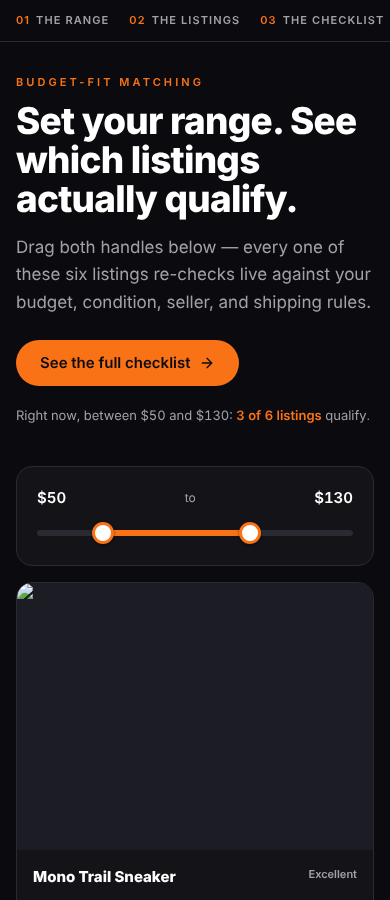
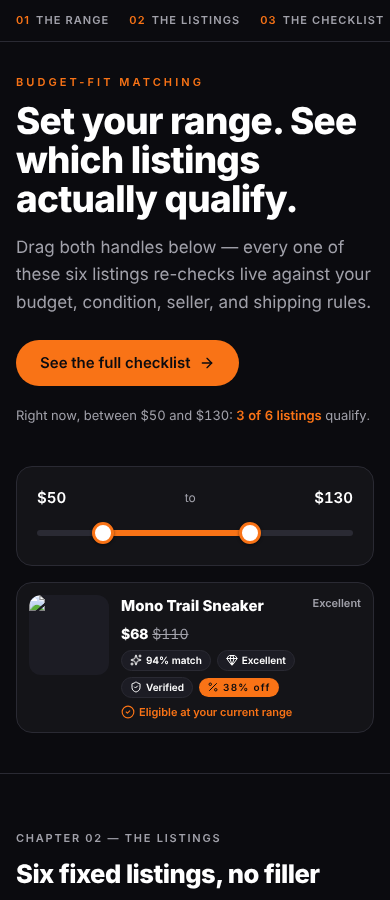
wip(dash-evolve): landing r57/a — post-judgment fix: compact ListingCard to horizontal thumbnail layout so all 4 proof badges clear the 390px mobile fold (rule-violation fix per S3-1, ranking not recomputed)
Claude-Session: https://claude.ai/code/session_01EuxqRXeCDb7yvWCvdZYyct

diff --git a/app/src/app/landing-evolve/r57/a/ListingCard.tsx b/app/src/app/landing-evolve/r57/a/ListingCard.tsx
@@ -28,20 +28,23 @@ export function ListingCard({ listing, min, max, compact = false }: ListingCardP
 
   return (
     <div
-      className="flex min-w-0 flex-col overflow-hidden rounded-2xl"
+      className={compact ? "flex min-w-0 items-start gap-3 overflow-hidden rounded-2xl p-3" : "flex min-w-0 flex-col overflow-hidden rounded-2xl"}
       style={{ border: `1px solid ${BORDER}`, backgroundColor: SURFACE }}
     >
-      <div className="relative aspect-[4/3] w-full" style={{ backgroundColor: SURFACE_RAISED }}>
+      <div
+        className={compact ? "relative aspect-square w-20 shrink-0 overflow-hidden rounded-xl" : "relative aspect-[4/3] w-full"}
+        style={{ backgroundColor: SURFACE_RAISED }}
+      >
         <Image
           src={`https://images.unsplash.com/photo-${listing.photoId}?auto=format&fit=crop&w=640&q=80`}
           alt={listing.alt}
           fill
-          sizes="(max-width: 768px) 90vw, 320px"
+          sizes={compact ? "80px" : "(max-width: 768px) 90vw, 320px"}
           className="object-cover"
         />
       </div>
 
-      <div className="flex min-w-0 flex-col gap-2 p-4">
+      <div className={compact ? "flex min-w-0 flex-1 flex-col gap-1.5" : "flex min-w-0 flex-col gap-2 p-4"}>
         <div className="flex items-start justify-between gap-2">
           <p className="truncate text-[15px] font-extrabold" style={{ color: FG }}>
             {listing.title}
